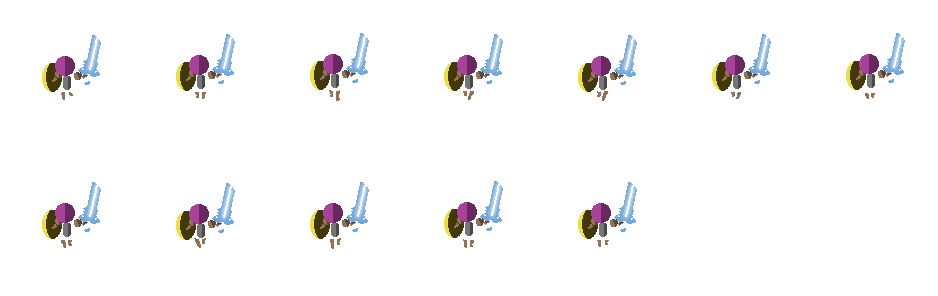
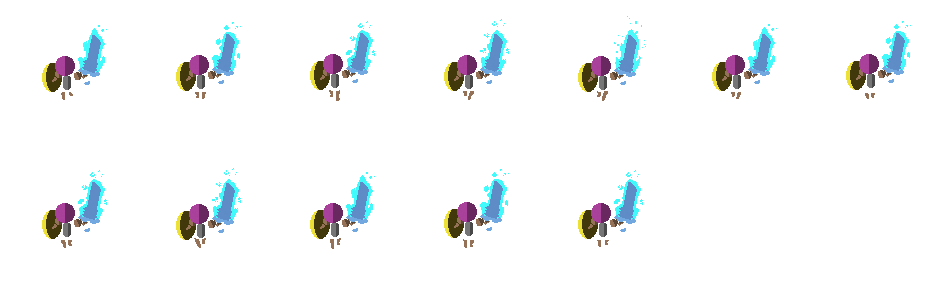
Scene Updated & Hero SuperStrike updated

diff --git a/KPCombat/Assets/_Scripts/_CharacterScripts/CharAttackController.cs b/KPCombat/Assets/_Scripts/_CharacterScripts/CharAttackController.cs
@@ -134,6 +134,8 @@ public class CharAttackController : MMGameSceneBehaviour
 
     IEnumerator ProcessSwingSwordQueue()
     {
+        //Debug.Log("start swing queue");
+
         FSMStateID curBattleState = FSMController.GetCurStateIDOfFSM(FSMType.Battle);
 
         do
@@ -144,6 +146,8 @@ public class CharAttackController : MMGameSceneBehaviour
 
         } while (curBattleState != FSMStateID.MELEE_CHARGE
         && curBattleState != FSMStateID.IDLE);
+
+        //Debug.Log("state: " + curBattleState);
 
         SwingSword();
 
@@ -171,6 +175,8 @@ public class CharAttackController : MMGameSceneBehaviour
 
     void SwingSword()
     {
+        //Debug.Log("swing sword: " + Time.renderedFrameCount);
+
         FSMController.SetTransition(FSMStateID.MELEE_ATTACK);
     }
 

diff --git a/KPCombat/Assets/_Scripts/_CharacterScripts/_CharFSM/CharAttackStateBC.cs b/KPCombat/Assets/_Scripts/_CharacterScripts/_CharFSM/CharAttackStateBC.cs
@@ -99,6 +99,7 @@ public class CharAttackStateBC : FSMBehaviourController
         Attacker.IsInteractionActive = false;
 
         MovementBehaviour.Stop();
+        MovementBehaviour.UnRegisterOnComplete(OnMovementCompleted);
 
         base.Exit();
     }
